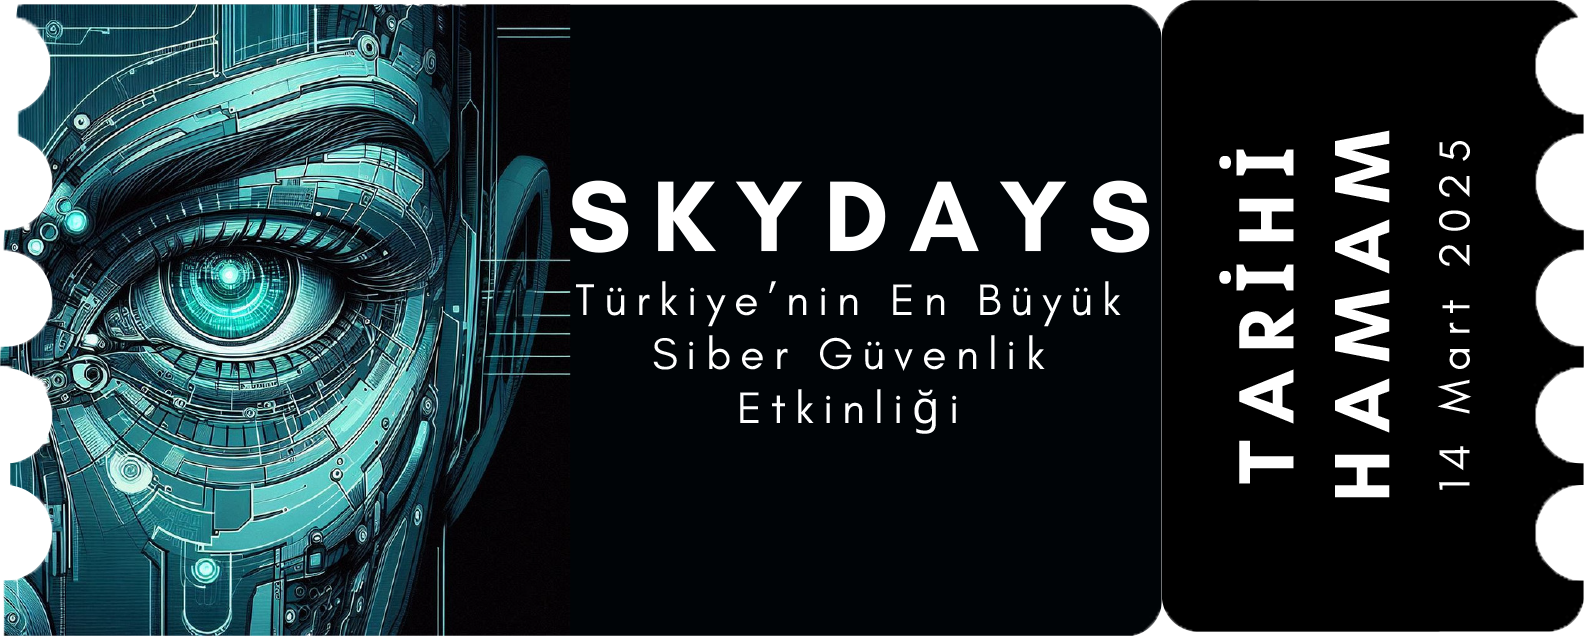
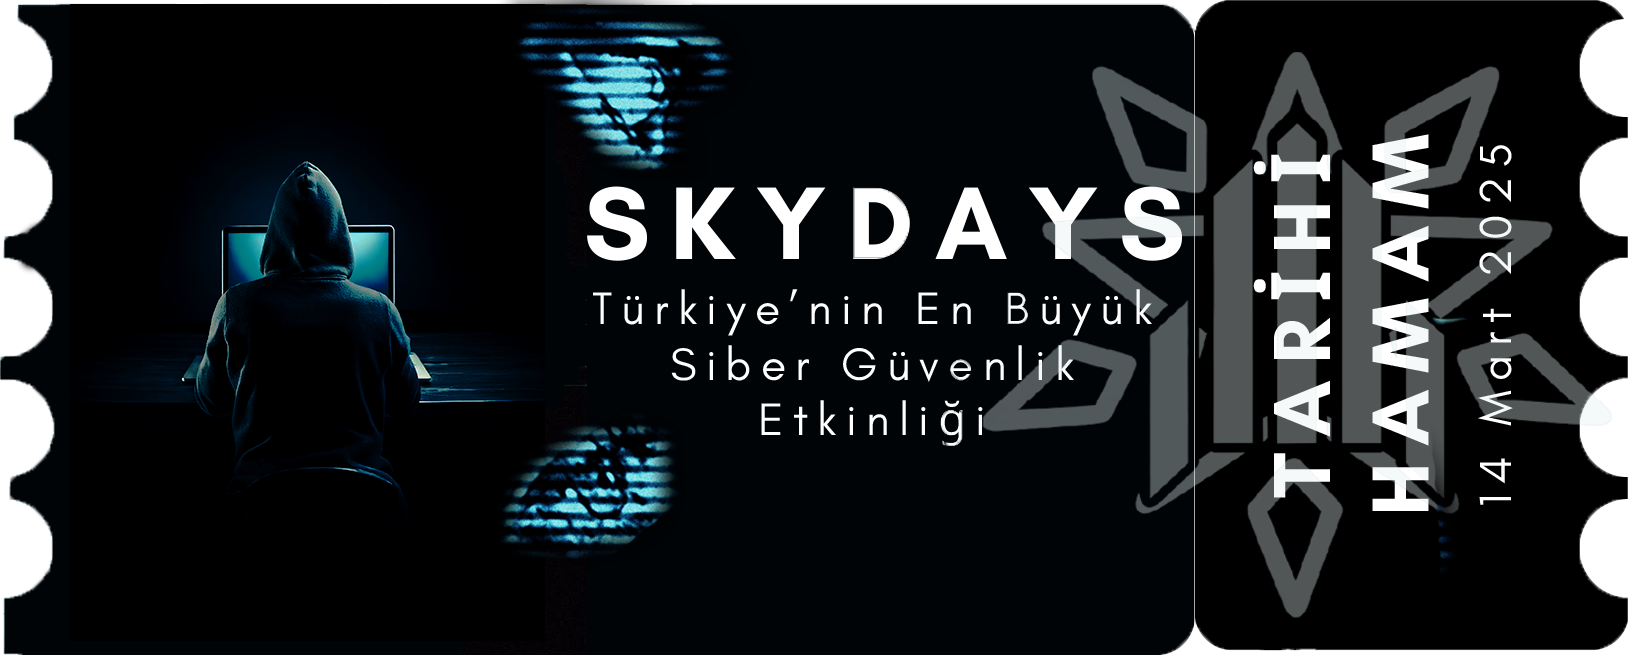
changed skydays ticket and new font

diff --git a/src/Components/ticketEditor.js b/src/Components/ticketEditor.js
@@ -22,7 +22,10 @@ const TicketEditor = ({ color, character, special, owner, onImageReady, imgRef }
       img.src = imagePath;
 
       try {
-        await document.fonts.load("80px 'Bebas Neue'");
+        await Promise.all([
+          document.fonts.load("80px 'Bebas Neue'"),
+          document.fonts.load("90px 'Antonio'"),
+        ]);
 
         img.onload = () => {
           canvas.width = img.width;
@@ -35,6 +38,7 @@ const TicketEditor = ({ color, character, special, owner, onImageReady, imgRef }
           let textY = canvas.height * 0.6;
           let textColor = "white";
           let fontSize = "80px";
+          ctx.font = `${fontSize} 'Bebas Neue'`;
 
           // Eğer özel bilet türü ise, isim konumunu ve rengini değiştir
           if (special === "GECENIN_YILDIZI") {
@@ -42,23 +46,25 @@ const TicketEditor = ({ color, character, special, owner, onImageReady, imgRef }
             textY = canvas.height * 0.52; // Üst kısmı için y pozisyonu
             textColor = "darkgreen"; // Koyu yeşil renk
             fontSize = "200px"; // Büyük font boyutu
+            ctx.font = `${fontSize} 'Bebas Neue'`;
           }
 
           if (special === "SKYDAYS") {
-            textX = canvas.width * 0.38; // Sağ üst köşe için x pozisyonu
-            textY = canvas.height * 0.94; // Üst kısmı için y pozisyonu
+            textX = canvas.width * 0.425; // Sağ üst köşe için x pozisyonu
+            textY = canvas.height * 0.88; // Üst kısmı için y pozisyonu
             textColor = "white"; // Koyu yeşil renk
-            fontSize = "90px"; // Büyük font boyutu
+            fontSize = "80px"; // Büyük font boyutu
+            ctx.font = `${fontSize} 'Antonio'`;
           }
 
-          ctx.font = `${fontSize} 'Bebas Neue'`;
+          
           ctx.fillStyle = textColor;
 
           // Normal biletler için sola hizalama, özel biletler için sağa hizalama
           ctx.textAlign = special === "GECENIN_YILDIZI" ? "right" : "left";
 
           ctx.fillText(
-            `${owner.firstName} ${owner.lastName}`,
+            `${owner.firstName} ${owner.lastName}`.toUpperCase(),
             textX,
             textY
           );

diff --git a/public/index.html b/public/index.html
@@ -25,6 +25,7 @@
       Learn how to configure a non-root public URL by running `npm run build`.
     -->
     <title>Skyticket</title>
+    <link href="https://fonts.googleapis.com/css2?family=Antonio&display=swap" rel="stylesheet">
   </head>
   <body>
     <noscript>You need to enable JavaScript to run this app.</noscript>
